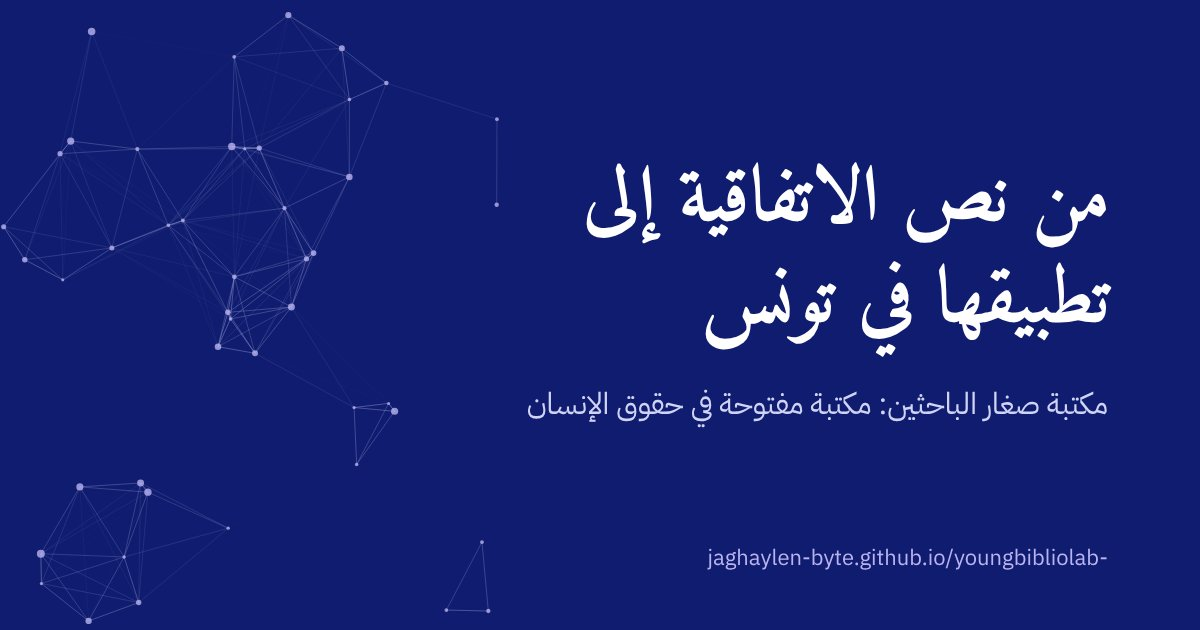
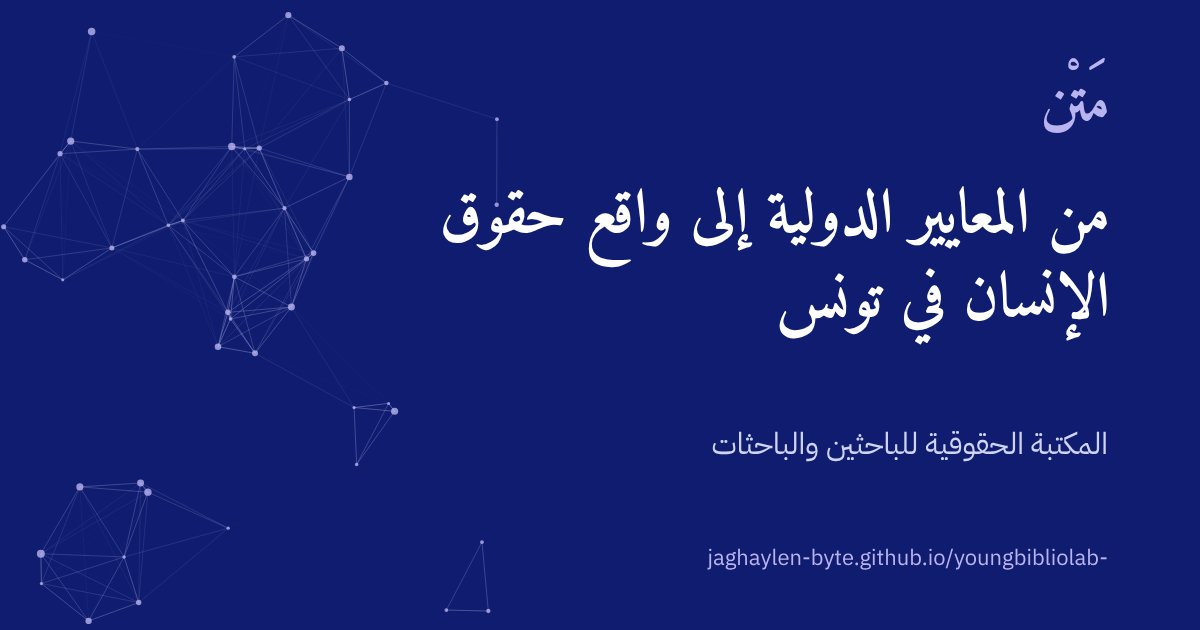
الاسم الجديد: «مَتْن · المكتبة الحقوقية»
- الاسم في رأس الصفحة، والشاشة الافتتاحية، وعنوان المتصفح، والتذييل، والبيانات الوصفية، وأيقونة الهاتف
- العبارة الرئيسية: «من المعايير الدولية إلى واقع حقوق الإنسان في تونس»
- صورة مشاركة جديدة بالاسم والعبارة

Claude-Session: https://claude.ai/code/session_019VjCsSfUs8LaN332wJn9YR

diff --git a/index.html b/index.html
@@ -3,33 +3,33 @@
 <head>
 <meta charset="utf-8">
 <meta name="viewport" content="width=device-width, initial-scale=1, viewport-fit=cover">
-<title>مكتبة صغار الباحثين</title>
+<title>مَتْن · المكتبة الحقوقية</title>
 <meta name="description" content="مكتبة مفتوحة بالعربية في حقوق الإنسان: المعاهدات وتفسيرها، والآليات الأممية والإقليمية، و25 حقًا مفهرسًا، وملف تونس وتقارير حقوقية متحقق منها منذ 2020.">
 <link rel="canonical" href="https://jaghaylen-byte.github.io/youngbibliolab-/">
 <meta name="robots" content="index, follow">
 <meta name="theme-color" content="#101c6f">
 <meta property="og:type" content="website">
 <meta property="og:locale" content="ar_TN">
-<meta property="og:site_name" content="مكتبة صغار الباحثين">
-<meta property="og:title" content="مكتبة صغار الباحثين · من نص الاتفاقية إلى تطبيقها في تونس">
+<meta property="og:site_name" content="مَتْن · المكتبة الحقوقية">
+<meta property="og:title" content="مَتْن · من المعايير الدولية إلى واقع حقوق الإنسان في تونس">
 <meta property="og:description" content="مكتبة مفتوحة بالعربية في حقوق الإنسان: المعاهدات وتفسيرها، والآليات الأممية والإقليمية، و25 حقًا مفهرسًا، وملف تونس وتقارير حقوقية متحقق منها منذ 2020.">
 <meta property="og:url" content="https://jaghaylen-byte.github.io/youngbibliolab-/">
-<meta property="og:image" content="https://jaghaylen-byte.github.io/youngbibliolab-/assets/img/og-card.jpg">
+<meta property="og:image" content="https://jaghaylen-byte.github.io/youngbibliolab-/assets/img/og-card.jpg?v=202611041600">
 <meta property="og:image:width" content="1200">
 <meta property="og:image:height" content="630">
-<meta property="og:image:alt" content="مكتبة صغار الباحثين: من نص الاتفاقية إلى تطبيقها في تونس">
+<meta property="og:image:alt" content="مَتْن، المكتبة الحقوقية: من المعايير الدولية إلى واقع حقوق الإنسان في تونس">
 <meta name="twitter:card" content="summary_large_image">
 <link rel="icon" href="assets/img/icon.svg" type="image/svg+xml">
 <link rel="icon" href="assets/img/icon-192.png" type="image/png" sizes="192x192">
 <link rel="apple-touch-icon" href="assets/img/icon-180.png">
 <link rel="manifest" href="manifest.webmanifest">
-<script type="application/ld+json">{"@context": "https://schema.org", "@type": "WebSite", "name": "مكتبة صغار الباحثين", "alternateName": "Young Researchers' Library", "url": "https://jaghaylen-byte.github.io/youngbibliolab-/", "inLanguage": "ar", "description": "مكتبة مفتوحة بالعربية في حقوق الإنسان: المعاهدات وتفسيرها، والآليات الأممية والإقليمية، و25 حقًا مفهرسًا، وملف تونس وتقارير حقوقية متحقق منها منذ 2020.", "about": [{"@type": "Thing", "name": "حقوق الإنسان"}, {"@type": "Place", "name": "تونس"}], "audience": {"@type": "Audience", "audienceType": "باحثون وباحثات وناشطون في حقوق الإنسان"}}</script>
+<script type="application/ld+json">{"@context": "https://schema.org", "@type": "WebSite", "name": "مَتْن · المكتبة الحقوقية", "alternateName": ["Matn", "Matn · Human Rights Library"], "slogan": "من المعايير الدولية إلى واقع حقوق الإنسان في تونس", "url": "https://jaghaylen-byte.github.io/youngbibliolab-/", "inLanguage": "ar", "description": "مكتبة مفتوحة بالعربية في حقوق الإنسان: المعاهدات وتفسيرها، والآليات الأممية والإقليمية، و25 حقًا مفهرسًا، وملف تونس وتقارير حقوقية متحقق منها منذ 2020.", "about": [{"@type": "Thing", "name": "حقوق الإنسان"}, {"@type": "Place", "name": "تونس"}], "audience": {"@type": "Audience", "audienceType": "باحثون وباحثات وناشطون في حقوق الإنسان"}}</script>
 <link rel="preconnect" href="https://fonts.googleapis.com">
 <link rel="preconnect" href="https://fonts.gstatic.com" crossorigin>
 <link rel="stylesheet" href="https://fonts.googleapis.com/css2?family=Amiri:wght@400;700&family=IBM+Plex+Mono:wght@400;500&family=IBM+Plex+Sans+Arabic:wght@400;500;600&display=swap">
 <script>document.documentElement.classList.add("intro-on")</script>
-<link rel="stylesheet" href="assets/css/style.css?v=202611041548">
-<link rel="stylesheet" href="assets/css/intro.css?v=202611041548">
+<link rel="stylesheet" href="assets/css/style.css?v=202611041600">
+<link rel="stylesheet" href="assets/css/intro.css?v=202611041600">
 </head>
 <body>
 <div id="intro" class="intro" role="button" tabindex="0" aria-label="مرحباً بالباحثين والباحثات. انقر على الشاشة للدخول إلى المكتبة">
@@ -37,7 +37,7 @@
   <div class="intro-text">
     <span class="intro-mark" aria-hidden="true"><svg viewBox="0 0 24 24"><path d="M4 19V5a2 2 0 0 1 2-2h14v16H6a2 2 0 0 0-2 2 2 2 0 0 0 2 2h14"/></svg></span>
     <p class="intro-title">مرحباً بالباحثين والباحثات</p>
-    <p class="intro-sub">مكتبة بحثية في حقوق الإنسان</p>
+    <p class="intro-sub">مَتْن · المكتبة الحقوقية</p>
     <p class="intro-hint"><span class="dot" aria-hidden="true"></span>انقر على الشاشة للدخول</p>
   </div>
 </div>
@@ -74,9 +74,9 @@
 <header class="mast">
   <div class="wrap">
     <div class="mast-row">
-      <a class="brand" href="#home" aria-label="مكتبة صغار الباحثين: الرئيسية">
+      <a class="brand" href="#home" aria-label="مَتْن · المكتبة الحقوقية: الرئيسية">
         <span class="brand-mark"><svg class="ic" aria-hidden="true"><use href="#i-book"></use></svg></span>
-        <span class="brand-text"><b>مكتبة صغار الباحثين</b><small>Young Researchers' Library</small></span>
+        <span class="brand-text"><b>مَتْن</b><small>المكتبة الحقوقية</small></span>
       </a>
       <form class="mast-search" id="mastSearch" role="search">
         <input id="mq" type="search" aria-controls="sug" aria-expanded="false" aria-autocomplete="list" placeholder="ابحث: حق، اتفاقية، رمز وثيقة، لجنة…" aria-label="بحث سريع في المكتبة" autocomplete="off">
@@ -89,12 +89,12 @@
   </div>
 </header>
 
-<main class="wrap" id="main" tabindex="-1"><p class="loading">جارٍ تحميل المكتبة…</p><noscript><section class="noscript"><h1>مكتبة صغار الباحثين</h1><p>مكتبة مفتوحة بالعربية في حقوق الإنسان: المعاهدات وتفسيرها، والآليات الأممية والإقليمية، و25 حقًا مفهرسًا، وملف تونس وتقارير حقوقية متحقق منها منذ 2020.</p><p>يحتاج هذا الموقع إلى تفعيل JavaScript لعرض البحث والفهارس. الحقوق المفهرسة في المكتبة:</p><ul><li>حرية الرأي والتعبير والإعلام</li><li>التجمع السلمي وتكوين الجمعيات والنقابات</li><li>المدافعون عن حقوق الإنسان والفضاء المدني</li><li>مناهضة التعذيب وسوء المعاملة</li><li>الحرية الشخصية والاحتجاز التعسفي</li><li>المحاكمة العادلة واستقلال القضاء</li><li>الحق في الحياة وعقوبة الإعدام</li><li>الاختفاء القسري</li><li>مكافحة الإرهاب وحالات الطوارئ</li><li>المشاركة السياسية والانتخابات</li><li>حقوق النساء والعنف القائم على النوع</li><li>حقوق الطفل</li><li>المهاجرون واللاجئون وطالبو اللجوء</li><li>عدم التمييز ومناهضة العنصرية</li><li>حرية الفكر والوجدان والدين</li><li>الخصوصية والحقوق الرقمية</li><li>الحق في الصحة</li><li>الحق في التعليم</li><li>العمل والحقوق النقابية والضمان الاجتماعي</li><li>السكن والغذاء والماء</li><li>حقوق الأشخاص ذوي الإعاقة</li><li>العدالة الانتقالية وجبر الضرر</li><li>الأعمال التجارية وحقوق الإنسان</li><li>البيئة والمناخ</li><li>الميول الجنسية والهوية الجندرية</li></ul></section></noscript></main>
+<main class="wrap" id="main" tabindex="-1"><p class="loading">جارٍ تحميل المكتبة…</p><noscript><section class="noscript"><h1>مَتْن · المكتبة الحقوقية</h1><p>من المعايير الدولية إلى واقع حقوق الإنسان في تونس.</p><p>مكتبة مفتوحة بالعربية في حقوق الإنسان: المعاهدات وتفسيرها، والآليات الأممية والإقليمية، و25 حقًا مفهرسًا، وملف تونس وتقارير حقوقية متحقق منها منذ 2020.</p><p>يحتاج هذا الموقع إلى تفعيل JavaScript لعرض البحث والفهارس. الحقوق المفهرسة في المكتبة:</p><ul><li>حرية الرأي والتعبير والإعلام</li><li>التجمع السلمي وتكوين الجمعيات والنقابات</li><li>المدافعون عن حقوق الإنسان والفضاء المدني</li><li>مناهضة التعذيب وسوء المعاملة</li><li>الحرية الشخصية والاحتجاز التعسفي</li><li>المحاكمة العادلة واستقلال القضاء</li><li>الحق في الحياة وعقوبة الإعدام</li><li>الاختفاء القسري</li><li>مكافحة الإرهاب وحالات الطوارئ</li><li>المشاركة السياسية والانتخابات</li><li>حقوق النساء والعنف القائم على النوع</li><li>حقوق الطفل</li><li>المهاجرون واللاجئون وطالبو اللجوء</li><li>عدم التمييز ومناهضة العنصرية</li><li>حرية الفكر والوجدان والدين</li><li>الخصوصية والحقوق الرقمية</li><li>الحق في الصحة</li><li>الحق في التعليم</li><li>العمل والحقوق النقابية والضمان الاجتماعي</li><li>السكن والغذاء والماء</li><li>حقوق الأشخاص ذوي الإعاقة</li><li>العدالة الانتقالية وجبر الضرر</li><li>الأعمال التجارية وحقوق الإنسان</li><li>البيئة والمناخ</li><li>الميول الجنسية والهوية الجندرية</li></ul></section></noscript></main>
 
 <footer class="site-foot">
   <div class="wrap foot-grid">
     <div class="foot-brand">
-      <b>مكتبة صغار الباحثين</b>
+      <b>مَتْن</b><span class="foot-sub">المكتبة الحقوقية</span>
       <p>مكتبة بحثية مفتوحة في حقوق الإنسان، تربط المعايير الدولية والآليات الأممية والإقليمية بما يخص تونس.</p>
       <p class="foot-upd">آخر تحديث للمحتوى: <span id="upd"></span></p>
     </div>
@@ -109,7 +109,7 @@
 <nav class="bottombar" id="bottombar" aria-label="التنقل السريع"></nav>
 <div id="sheet" hidden></div>
 <div id="toast" class="toast" role="status" aria-live="polite" hidden></div>
-<script src="assets/js/intro.js?v=202611041548" defer></script>
-<script src="assets/js/app.js?v=202611041548" defer></script>
+<script src="assets/js/intro.js?v=202611041600" defer></script>
+<script src="assets/js/app.js?v=202611041600" defer></script>
 </body>
 </html>

diff --git a/assets/js/app.js b/assets/js/app.js
@@ -1,4 +1,4 @@
-/* مكتبة صغار الباحثين — application script.
+/* مَتْن · المكتبة الحقوقية (Matn · Human Rights Library) — application script.
    Content lives in data/*.json; this file only renders it. To add documents, edit the JSON files (see README.md). */
 (function () {
   "use strict";
@@ -375,7 +375,7 @@
     var count = function (types) { return IDX.filter(function (it) { return types.indexOf(it.type) >= 0; }).length; };
 
     var hero = '<section class="h-hero" aria-labelledby="h-title"><div class="h-copy">' +
-      '<h1 id="h-title">من نص الاتفاقية إلى تطبيقها في تونس</h1>' +
+      '<h1 id="h-title">من المعايير الدولية إلى واقع حقوق الإنسان في تونس</h1>' +
       '<p class="h-lede">مكتبة مفتوحة تربط كل حق بنصّه الملزم، وتفسيره المعتمد، والآليات التي تراقبه، وما رُصد في تونس بشأنه.</p>' +
       '<form class="bigsearch" id="homeSearch" role="search"><input id="hq" type="search" placeholder="ابحث بالحق أو رمز الوثيقة أو رقم المادة أو اللجنة…" aria-label="بحث في المكتبة">' + ic("search") +
       '<button class="btn primary" type="submit">بحث</button></form>' +
@@ -1124,7 +1124,7 @@
     var s = st.citeStyle, rtl = s === "arabic";
     return '<html xmlns:o="urn:schemas-microsoft-com:office:office" xmlns:w="urn:schemas-microsoft-com:office:word"><head><meta charset="utf-8"><title>' + esc(name) + "</title>" +
       "<style>body{font-family:'Times New Roman',serif;font-size:12pt}h1{font-size:16pt}li{margin-bottom:8pt}</style></head><body dir=\"" + (rtl ? "rtl" : "ltr") + "\">" +
-      '<h1 dir="rtl">' + esc(name) + "</h1><p dir=\"rtl\">قائمة مراجع من مكتبة صغار الباحثين، نمط " + esc(STYLES.filter(function (x) { return x[0] === s; })[0][1]) + "، بتاريخ " + esc(fmtDate(today())) + "</p><ol>" +
+      '<h1 dir="rtl">' + esc(name) + "</h1><p dir=\"rtl\">قائمة مراجع من «مَتْن · المكتبة الحقوقية»، نمط " + esc(STYLES.filter(function (x) { return x[0] === s; })[0][1]) + "، بتاريخ " + esc(fmtDate(today())) + "</p><ol>" +
       items.map(function (d) { return "<li>" + cite(d, s) + "</li>"; }).join("") + "</ol></body></html>";
   }
   function download(name, mime, content) {

diff --git a/404.html b/404.html
@@ -1,6 +1,6 @@
 <!doctype html>
 <html lang="ar" dir="rtl"><head><meta charset="utf-8"><meta name="viewport" content="width=device-width, initial-scale=1">
-<title>الصفحة غير موجودة · مكتبة صغار الباحثين</title><meta name="robots" content="noindex">
+<title>الصفحة غير موجودة · مَتْن · المكتبة الحقوقية</title><meta name="robots" content="noindex">
 <link rel="icon" href="/youngbibliolab-/assets/img/icon.svg" type="image/svg+xml">
 <meta http-equiv="refresh" content="4; url=/youngbibliolab-/">
 <style>:root{color-scheme:light dark}body{margin:0;min-height:100vh;display:grid;place-items:center;background:#101c6f;color:#fff;font-family:"IBM Plex Sans Arabic","Segoe UI",Tahoma,sans-serif;text-align:center;padding:24px}

diff --git a/assets/css/style.css b/assets/css/style.css
@@ -811,3 +811,8 @@ main:has(> .loading) { min-height: calc(100vh - 60px); }
 #main .mini-list li > a { display: grid; }
 #main .ri-col li a { display: flex; }
 #main .tn-rights li > a { display: grid; }
+
+/* v3.3 name «مَتْن» */
+.brand-text b { font-size: 26px; letter-spacing: 0; }
+.brand-text small { direction: rtl; text-align: right; font-size: 13px; }
+.foot-sub { display: block; color: #b9b3f0; font-size: 14px; margin-top: -2px; }

diff --git a/README.md b/README.md
@@ -1,4 +1,6 @@
-# مكتبة صغار الباحثين · Young Researchers' Library
+# مَتْن · المكتبة الحقوقية · Matn · Human Rights Library
+
+> من المعايير الدولية إلى واقع حقوق الإنسان في تونس
 
 مكتبة بحثية حقوقية بالعربية تجمع:
 - المعايير الدولية لحقوق الإنسان
